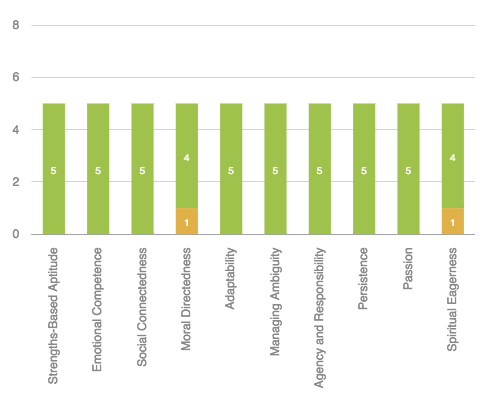
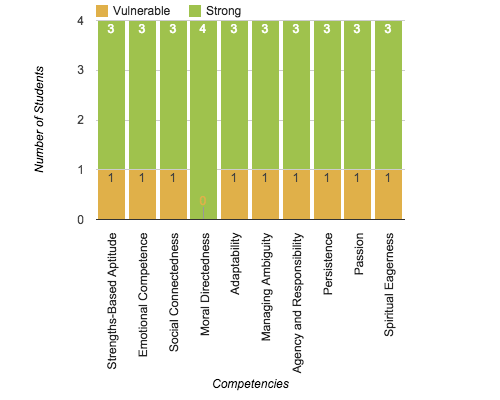
checkpoint

diff --git a/resources/views/front/manage/reports/competency.blade.php b/resources/views/front/manage/reports/competency.blade.php
@@ -10,7 +10,7 @@
 
 @section('page1')
 	
-	<img src="{{ url('public/front/img/report/page1.png') }}" class="width-100"/>
+	<img src="{{ url('public/front/img/report/postPage1.png') }}" class="width-100"/>
 	<div class="page-break"></div>
 @stop
 
@@ -171,7 +171,7 @@
 	<div class="page-break"></div>
 		
 		<div class="no-margin heading">
-			Engagement
+			Student Engagement
 		</div>
 		<br>
 		<div class="content">
@@ -218,7 +218,7 @@
 	<div class="page-break"></div>
 	
 		<div class="no-margin heading">
-			Impact
+			Program Impact
 		</div>
 		<br>
 		<div class="content">
@@ -236,7 +236,7 @@
 						</div>
 						<div class="page-break"></div>
 						<div class="no-margin heading">
-							Impact (cont.) 
+							Program Impact (cont.) 
 						</div>
 						<br>
 						<div class="content">
@@ -517,21 +517,49 @@
 		</div>
 
 		<div class="content">
+			<p><strong>Recommended Readings</strong></p>
+			<p>Goleman, D. (1995). <i>Emotional intelligence. New York: Bantam Books.</i></p>
+			<p>Hammond, W. (2012). <i>Embracing a Strength-Based Perspective and Practice in Education.</i></p>
+			<p>Henderson, N., Benard, B., & Sharp-Light, N. (2000) <i>Mentoring for resiliency: Setting up programs for moving youth from "stressed to success."</i> San Diego, CA: Resiliency in Action.</p>
+			<p>Henderson, N., & Milstein, M. M., (2003) <i>Resiliency in Schools: Making it happen for students and educators.</i> Thousand Oaks, CA: Corwin Press.</p>
+			<p>Henderson, N., & Sharp-Light, N., & Benard, B. eds. (1999) <i>Schoolwide approaches for fostering resiliency.</i> San Diego, CA: Resiliency in Action, Inc.</p>
+			<p>Sanchez, H. (2003) <i>The mentors guide to promoting resiliency.</i> Xlibris Corp.</p>
+			<p>Seligman, M. L. P. (1998) <i>Learned optimism: How to change your mind and your life.</i> New York: Simon and Shuster.</p>
+			<p>Seligman, M. L. P. (2007). <i>The optimistic child: A proven program to safeguard children against depression and build lifelong resilience.</i> New York: Houghton Mifflin Harcourt.</p>
+			<p>Ungar, M. (2002) <i>Playing at being bad: The hidden resilience of troubled teens.</i> Halifax: Nimbus.</p>
+			<p>Ungar, M. (2007) <i>Too safe for their own good: How risk and responsibility help teens thrive.</i> Toronto: McClelland and
+			Stewart.</p>
+			<p>Waxman, H.C., Padron, Y., & Gray, J.P. (2004). <i>E</i>ducational resiliency: Student, teacher and school perspectives.</i> Greenwich: Information Age Publishing.</p>
+
+		</div>
+		<!--<div class="footer no-margin">
+			<img src="{{ url('public/front/img/report/footer2.png') }}" class="width-100"/>
+		</div>-->
+
+	<div class="page-break"></div>
+
+		<div class="no-margin heading">
+			Appendix E
+		</div>
+
+		<div class="content">
 			<table width="100%" class="table table-striped" style="border-top: 0.5px solid black;margin-bottom:0.25cm;">
 									<tr>
-						<td width="5%"> 1. </td>
+						<td width="2%"> 1. </td>
 						<td width="60%"> What Grade are you in? </td>
-						<td> Answer </td>
-						<td width="20%" align="center"> Count </td>
-						<td width="20%" align="center"> Total % </td>
+						<td width="8%" align="right"> Answer </td>
+						<td width="15%" align="right"> Count </td>
+						<td width="15%" align="right"> Total % </td>
 					</tr>
+			</table>
 			@foreach($grade as $data)
+			<table width="100%" class="table table-striped" style="border-bottom: 0.5px solid black;">
 					<tr>
-						<td></td>
-						<td><div style="width:{!! (($totalStudents) == 0) ? 0 : ($data[1]*100)/($totalStudents) !!}%;min-height:5px;background:#9fc24d;color:white;{!! ($data[1] == 0) ? '' : 'padding:3px 10px;' !!} text-align:left;">{{ ($data[1]==0)?'':$data[1] }}</div></td>
-						<td align="right"> {{ $data[0] }}</td>
-						<td align="right"> {{ $data[1] }}</td>
-						<td align="right">{{ (($totalStudents) == 0) ? 0 : round(($data[1]*100)/($totalStudents)) }}%</td>
+						<td width="2%"></td>
+						<td width="60%"><div style="width:{!! (($totalStudents) == 0) ? 0 : ($data[1]*100)/($totalStudents) !!}%;min-height:5px;background:#9fc24d;color:white;{!! ($data[1] == 0) ? '' : 'padding:3px 10px;' !!} text-align:left;">{{ ($data[1]==0)?'':$data[1] }}</div></td>
+						<td width="8%" align="right"> {{ $data[0] }}</td>
+						<td width="15%" align="right"> {{ $data[1] }}</td>
+						<td width="15%" align="right">{{ (($totalStudents) == 0) ? 0 : round(($data[1]*100)/($totalStudents)) }}%</td>
 					</tr>
 			@endforeach
 			</table>

diff --git a/resources/views/front/manage/class.blade.php b/resources/views/front/manage/class.blade.php
@@ -845,6 +845,21 @@
 
 										<hr />
 										<br />
+										
+										@if(isset($survey_improve[$survey->id])) 
+										<h4>Number of Students Improve</h4>
+										{!! "<script type='text/javascript'> var improve_". $survey->id." = ". json_encode($survey_improve[$survey->id]) . "</script>" !!}
+										<div id="columnchart_values_{{$survey->id}}" class="improve" data-id="{{$survey->id}}" style="width:750px;height:600px;"></div>
+										<br />
+										@endif
+										
+										@if(isset($survey_improve[$survey->id])) 
+										<h4>Number of Students who Now Demonstrate Strength</h4>
+										{!! "<script type='text/javascript'> var demonstrate_". $survey->id." = ". json_encode($survey_demonstrate[$survey->id]) . "</script>" !!}
+										<div id="demonstratechart_values_{{$survey->id}}" class="demonstrate" data-id="{{$survey->id}}" style="width:750px;height:600px;"></div>
+										<br />
+										@endif
+										
 										@if(isset($survey_engagement[$survey->id]))
 										<h4>Engagement</h4>
 										<br />
@@ -876,18 +891,39 @@
 										@endforeach
 										<br />
 										@endif
-										@if(isset($survey_improve[$survey->id])) 
-										<h4>Number of Students Improve</h4>
-										{!! "<script type='text/javascript'> var improve_". $survey->id." = ". json_encode($survey_improve[$survey->id]) . "</script>" !!}
-										<div id="columnchart_values_{{$survey->id}}" class="improve" data-id="{{$survey->id}}" style="width:750px;height:600px;"></div>
+
+										@if(isset($survey_impact[$survey->id]))
+										<h4>Impact</h4>
+										<br />
+											<?php $i = 0; ?>
+										
+										@foreach($survey_impact[$survey->id] as $data)
+											<?php $i++; ?>
+										<table width="100%" class="table table-striped">
+											<tr>
+												<td width="5%"> {{ $i }} </td>
+												<td> {{ $data[0] }} </td>
+												<td width="20%" align="center"> Count </td>
+												<td width="20%" align="center"> Total % </td>
+											</tr>
+											<tr>
+												<td></td>
+												<!--<td bgcolor="#e0b049" width="{!! $data[1]*10 !!}%"></td>-->
+												<td><div style="width:{!! (($data[1] + $data[2]) == 0) ? 0 : ($data[1]*100)/($data[1]+$data[2]) !!}%;background:#9fc24d;color:white; {!! ($data[1] == 0) ? '' : 'padding:3px 10px;' !!} text-align:left;">Yes</div></td>
+												<td align="center"> {{ $data[1] }}</td>
+												<td align="center">{{ (($data[1] + $data[2]) == 0) ? 0 : round(($data[1]*100)/($data[1]+$data[2])) }}%</td>
+											</tr>
+											<tr>
+												<td></td>
+												<td><div style="width:{!! (($data[1] + $data[2]) == 0) ? 0 : ($data[2]*100)/($data[1]+$data[2]) !!}%;background:#e0b049;color:white;{!! ($data[2] == 0) ? '' : 'padding:3px 10px;' !!}text-align:left;">No</div></td>
+												<td align="center"> {{ $data[2] }}</td>
+												<td align="center">{{ (($data[1] + $data[2]) == 0) ? 0 : round(($data[2]*100)/($data[1]+$data[2])) }}%</td>
+											</tr>
+										</table>
+										@endforeach
 										<br />
 										@endif
-										@if(isset($survey_improve[$survey->id])) 
-										<h4>Number of Students who Now Demonstrate Strength</h4>
-										{!! "<script type='text/javascript'> var demonstrate_". $survey->id." = ". json_encode($survey_demonstrate[$survey->id]) . "</script>" !!}
-										<div id="demonstratechart_values_{{$survey->id}}" class="demonstrate" data-id="{{$survey->id}}" style="width:750px;height:600px;"></div>
-										<br />
-										@endif
+
 										<h4>10 Core Competencies Survey</h4>
 										{!! "<script type='text/javascript'> var data_". $survey->id." = ". json_encode($survey->stats) . "</script>" !!}
 										<div id="competencies_values_{{$survey->id}}" class="ccc" data-id="{{$survey->id}}" style="width:750px;height:600px;"></div>

diff --git a/app/Http/Controllers/Manage/ManageController.php b/app/Http/Controllers/Manage/ManageController.php
@@ -155,6 +155,21 @@ class ManageController extends Controller {
 		 			}
 		 			$survey_engagement[$survey->id] = $data2;
 
+		 			$data3 = [];
+	 			 	//$data3[] = ['Question','Yes','No'];
+	 			 	$questions = PostSurveyQuestion::where('survey_id',$survey->survey_id)->get();
+	 			 
+		 			 if($questions){
+		 			 	foreach ($questions as $question) {
+		 			 		$yesCount = PostSurveyAnswers::where('campaign_id',$survey->id)->where('question_id',$question->id)->where('answer',1)->count();
+		 			 		$noCount = PostSurveyAnswers::where('campaign_id',$survey->id)->where('question_id',$question->id)->where('answer',0)->count();
+		 				 	array_push($data3, array($question->title,$yesCount,$noCount));
+		 				 	//array_push($data3, array('title' => $question->title,'yes' => $yesCount,'no' => $noCount));
+		 				 }
+		 			 }
+		 			 //dd($data3);
+		 			 $survey_impact[$survey->id] = $data3;
+		 			//dd($survey->getImproveResults());
 		 			$improveData[$survey->id] = $survey->getImproveResults();
 
 		 			$demonstrateData[$survey->id] = $survey->getDemonstrateResults();
@@ -174,6 +189,7 @@ class ManageController extends Controller {
 				'survey_engagement' => $survey_engagement,
 				'survey_improve' 	=> $improveData,
 				'survey_demonstrate'=> $demonstrateData,
+				'survey_impact'		=> $survey_impact,
 
 			];
 
@@ -227,7 +243,7 @@ class ManageController extends Controller {
 			'page'   => 'surveys',
 			'school' => $school,
 		];
-
+		dd($data);
 		return \View::make('front.manage.surveys', $data);
 	}
 

diff --git a/resources/views/front/manage/reports/chart.blade.php b/resources/views/front/manage/reports/chart.blade.php
@@ -63,8 +63,8 @@
     {!! Form::textarea('chart1', null, ['id' => 'data1', 'style' => 'display:none']) !!}
     {!! Form::textarea('chart2', null, ['id' => 'data2', 'style' => 'display:none']) !!}
 	{!! Form::textarea('chart3', null, ['id' => 'data3', 'style' => 'display:none']) !!}
-    {!! Form::textarea('improve', null, ['id' => 'improves', 'style' => 'display:none']) !!}
-    {!! Form::textarea('demonstrate', null, ['id' => 'demonstrates', 'style' => 'display:none']) !!}
+    {!! Form::textarea('improved', null, ['id' => 'improves', 'style' => 'display:none']) !!}
+    {!! Form::textarea('demonstrated', null, ['id' => 'demonstrates', 'style' => 'display:none']) !!}
 
 	{!! Form::close() !!}
 
@@ -199,7 +199,7 @@
             data.addColumn('number', 'Students');
 
             for (var i in arrayData4){
-                data.addRow([arrayData[i][0], parseInt(arrayData[i][1])]);
+                data.addRow([arrayData4[i][0], parseInt(arrayData4[i][1])]);
             }
 
             var view = new google.visualization.DataView(data);
@@ -263,7 +263,7 @@
             data.addColumn('number', 'Students');
 
             for (var i in arrayData5){
-                data.addRow([arrayData[i][0], parseInt(arrayData[i][1])]);
+                data.addRow([arrayData5[i][0], parseInt(arrayData5[i][1])]);
             }
 
             var view = new google.visualization.DataView(data);

diff --git a/app/Http/Controllers/Manage/SurveyController.php b/app/Http/Controllers/Manage/SurveyController.php
@@ -79,12 +79,13 @@ class SurveyController extends Controller {
 
 	public function getReport($id)
 	{
-		$survey = Campaign::with('classroom', 'stats', 'stats.grouping')->find($id);
+		$survey = Campaign::with('classroom', 'stats', 'stats.grouping', 'school')->find($id);
 
 		$data = [];
 
 		if ($survey)
 		{
+			//dd($survey);
 			$school = $survey->school;
 
 			$data = [
@@ -122,7 +123,7 @@ class SurveyController extends Controller {
 	 			 }
 
 	 			 $data['gdata_3'] = $data3;
-
+	 			 //dd($survey->getImproveResults());
 	 			 $data['improve'] = $survey->getImproveResults();
 
 		 		 $data['demonstrate'] = $survey->getDemonstrateResults();
@@ -166,7 +167,7 @@ class SurveyController extends Controller {
 
 	 			 $data['gdata_3'] = $data3;
 
-			    $improve = \Input::get('improve');
+			    $improve = \Input::get('improved');
 			    if($improve != ""){
 			    	$filename = 'report-chart-improve-'.$survey->id.'.png';
 					$image = \Image::make($improve);
@@ -174,7 +175,7 @@ class SurveyController extends Controller {
 				    $data['improve'] = $filename;
 			    }
 
-			    $demonstrate = \Input::get('demonstrate');
+			    $demonstrate = \Input::get('demonstrated');
 			    if($demonstrate != ""){
 			    	$filename = 'report-chart-demonstrate-'.$survey->id.'.png';
 					$image = \Image::make($demonstrate);

diff --git a/app/Models/Campaign.php b/app/Models/Campaign.php
@@ -135,7 +135,7 @@ class Campaign extends \App\Models\Model {
 		}
 	}
 	public function getImproveResults()
-	{
+	{	
 		$data[$this->id] = [];
 
 		$class = Classroom::with('students')->find($this->class_id);

diff --git a/resources/views/front/manage/surveys.blade.php b/resources/views/front/manage/surveys.blade.php
@@ -20,11 +20,12 @@
 
 					<hr />
 
+					
+						</div>
+
+					</div>
+
 				</div>
-
-			</div>
-
-		</div>
 
 	@stop
 
